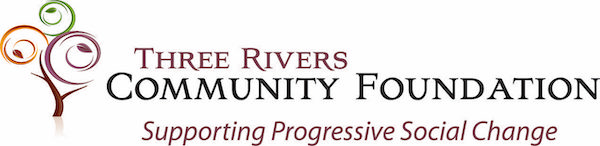
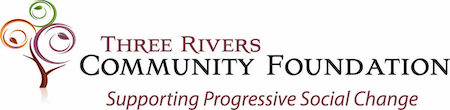
resize again

diff --git a/_projects/1_about.md b/_projects/1_about.md
@@ -10,14 +10,14 @@ featured_image: '/images/About.jpg'
 
 ## How we got here...
 
-##### Let's Act PGH started right before the pandemic and went through multiple iterations before becoming the website that you are exploring today. We originally came up with the idea to do a Theatre of the Oppressed (TO) project focused on the education system with high school-aged youth after doing similar work with educators starting in 2017. With funding from the Rivers Community Foundation and Remake Learning, we wanted to center youth voices in the discussions around school reform and liberatory education practices.
-##### Our main objective for this project was to share TO tools with a core group of student leaders who would then share what they learned with their communities. Our goals were to analyze and unpack systems of oppression in our education system; share our lived experiences of these oppressions; and use these experiences as learning opportunities to rehearse alternatives and enact positive change.
-##### Our intention was to partner with the Braddock Youth Project and hold workshops (and eventually a public performance) in the Wilkinsburg Public Library across the street. We made it through two workshops before the pandemic shut everything down. It took about a year for us to start the project up again, this time transitioning to an online platform using Zoom and other innovative platforms such as Gather and Google Jamboard. By then, we were all starting to get a little burned out by virtual programming, especially students who were in school online all day, 5 days a week. For this reason, we invited participants of the Braddock Youth Project to rejoin the program and also opened participation to other high school-aged youth in the region.
-##### The majority of our funding went toward increasing the accessibility of the program. Participants were monetarily compensated for their time, creative labor, and expertise. We also set up snack deliveries so that we could experience the community building action of breaking bread together.
-##### As our program focused on youth agency and voice, we followed the lead of our participants, who determined the specifics of the projects. As facilitators, our primary goals were to develop community, foster trust, and create an environment where the youth could feel like they could take risks and be honest about their experiences in the education system. Our time together was slow, spontaneous, thoughtful, and nonlinear.
-##### This website is our attempt to share some of our time together. We encourage you to explore the pages in a way that makes sense for you, but please listen to some of the Conversations and Provocations from our youth artists.
-##### We are grateful for the guidance, wisdom, and support of our collaborators, Dr. Gretchen Givens Generett and Dr. Beth Sondel, and the logistics support from Lisa Simon, Tatiana Crosby, BYP, and the Wilkinsburg Public Library.
-##### We are also grateful for the patience and financial support of our funders, the Three Rivers Community Foundation and Remake Learning, who gave us the time and space that we needed to adapt the project and bring it to fruition.
+###### Let's Act PGH started right before the pandemic and went through multiple iterations before becoming the website that you are exploring today. We originally came up with the idea to do a Theatre of the Oppressed (TO) project focused on the education system with high school-aged youth after doing similar work with educators starting in 2017. With funding from the Rivers Community Foundation and Remake Learning, we wanted to center youth voices in the discussions around school reform and liberatory education practices.
+###### Our main objective for this project was to share TO tools with a core group of student leaders who would then share what they learned with their communities. Our goals were to analyze and unpack systems of oppression in our education system; share our lived experiences of these oppressions; and use these experiences as learning opportunities to rehearse alternatives and enact positive change.
+###### Our intention was to partner with the Braddock Youth Project and hold workshops (and eventually a public performance) in the Wilkinsburg Public Library across the street. We made it through two workshops before the pandemic shut everything down. It took about a year for us to start the project up again, this time transitioning to an online platform using Zoom and other innovative platforms such as Gather and Google Jamboard. By then, we were all starting to get a little burned out by virtual programming, especially students who were in school online all day, 5 days a week. For this reason, we invited participants of the Braddock Youth Project to rejoin the program and also opened participation to other high school-aged youth in the region.
+###### The majority of our funding went toward increasing the accessibility of the program. Participants were monetarily compensated for their time, creative labor, and expertise. We also set up snack deliveries so that we could experience the community building action of breaking bread together.
+###### As our program focused on youth agency and voice, we followed the lead of our participants, who determined the specifics of the projects. As facilitators, our primary goals were to develop community, foster trust, and create an environment where the youth could feel like they could take risks and be honest about their experiences in the education system. Our time together was slow, spontaneous, thoughtful, and nonlinear.
+###### This website is our attempt to share some of our time together. We encourage you to explore the pages in a way that makes sense for you, but please listen to some of the Conversations and Provocations from our youth artists.
+###### We are grateful for the guidance, wisdom, and support of our collaborators, Dr. Gretchen Givens Generett and Dr. Beth Sondel, and the logistics support from Lisa Simon, Tatiana Crosby, BYP, and the Wilkinsburg Public Library.
+###### We are also grateful for the patience and financial support of our funders, the Three Rivers Community Foundation and Remake Learning, who gave us the time and space that we needed to adapt the project and bring it to fruition.
 
 <img src="/Lets-s-Act.github.io/images/TRCF.jpg">
 
